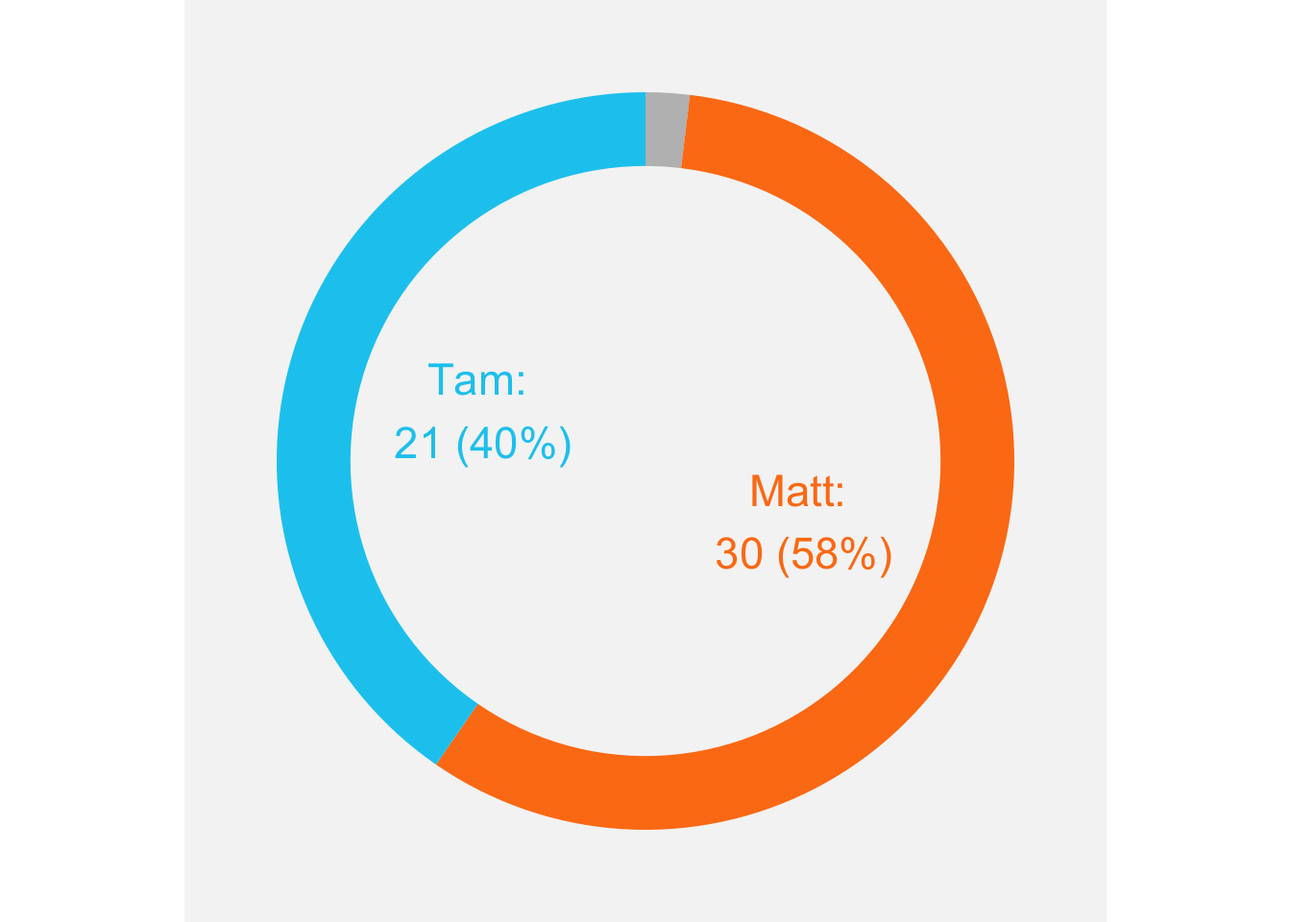
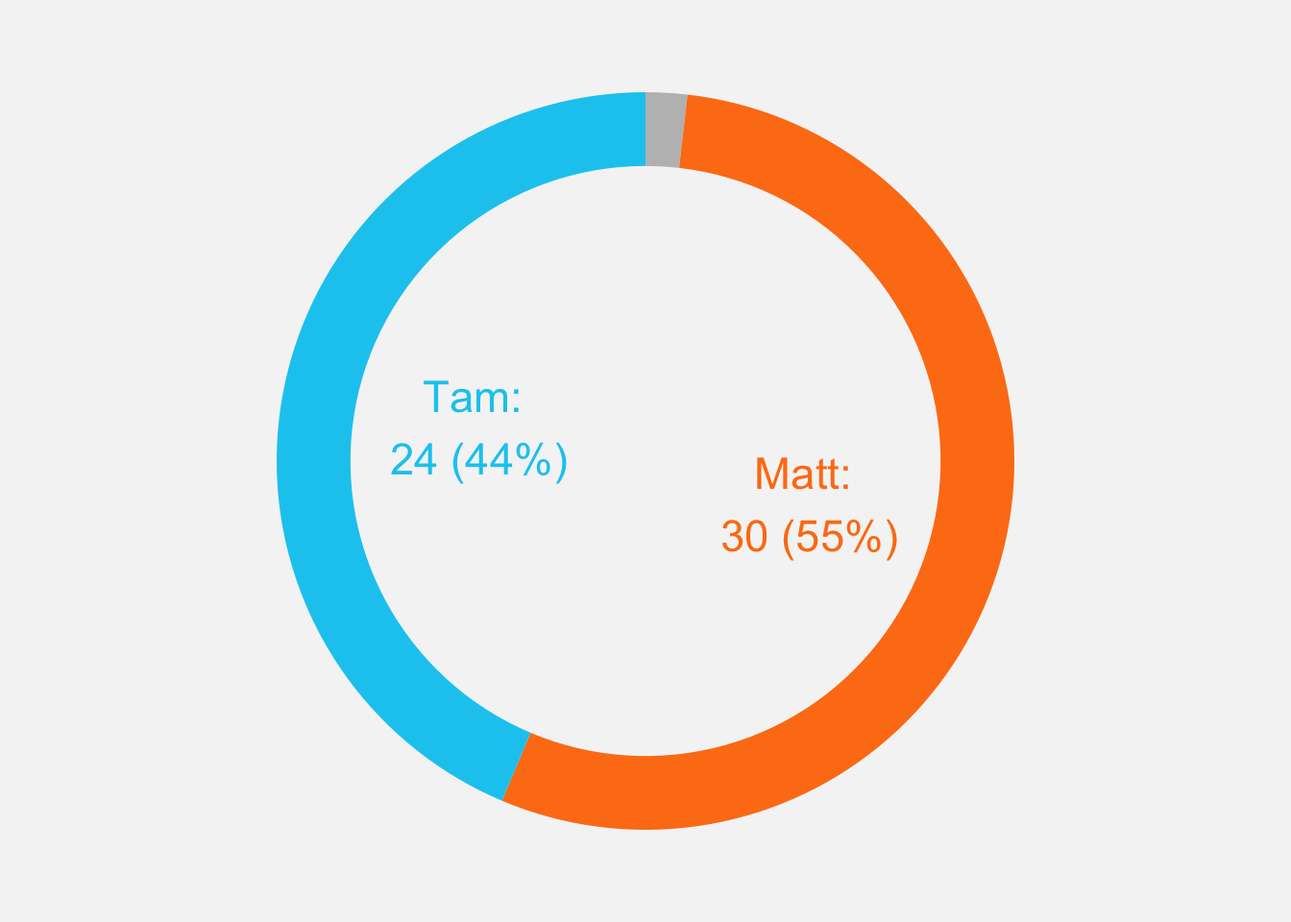
Change plot backgrounds to grey

Changed region(s): [[0.5625, 0.5, 0.7188, 0.625], [0.2812, 0.4062, 0.4375, 0.5312], [0.3438, 0.75, 0.4062, 0.875]]

diff --git a/mini.html b/mini.html
@@ -75,7 +75,7 @@ ul.task-list li input[type="checkbox"] {
 <p>S</p>
 </div>
 </div>
-<p>After 52 Minis, <strong><span class="matt">Matt</span></strong> is leading 30 to 21 (with 1 draw).</p>
+<p>After 55 Minis, <strong><span class="matt">Matt</span></strong> is leading 30 to 24 (with 1 draw).</p>
 <div class="cell">
 <div class="cell-output-display">
 <div>
@@ -110,8 +110,8 @@ ul.task-list li input[type="checkbox"] {
 <p>This chart compares our completion times for each Mini. Click/hover on the points to see the details of each game.</p>
 <div class="cell">
 <div class="cell-output-display">
-<div class="plotly html-widget html-fill-item" id="htmlwidget-49c35e6c49479754ac1f" style="width:100%;height:464px;"></div>
-<script type="application/json" data-for="htmlwidget-49c35e6c49479754ac1f">{"x":{"data":[{"x":[20080,20080,null,20081,20081,null,20083,20083,null,20085,20085,null,20086,20086,null,20089,20089,null,20090,20090,null,20091,20091,null,20092,20092,null,20093,20093,null,20095,20095,null,20098,20098,null,20099,20099,null,20100,20100,null,20101,20101,null,20105,20105,null,20108,20108,null,20109,20109,null,20110,20110,null,20112,20112,null,20113,20113,null,20114,20114,null,20115,20115,null,20116,20116,null,20118,20118,null,20119,20119,null,20120,20120,null,20122,20122,null,20123,20123,null,20124,20124,null,20125,20125,null,20126,20126,null,20128,20128,null,20130,20130,null,20131,20131,null,20135,20135,null,20137,20137,null,20138,20138,null,20139,20139,null,20141,20141,null,20142,20142,null,20143,20143,null,20144,20144,null,20145,20145,null,20146,20146,null,20147,20147,null,20149,20149,null,20150,20150,null,20159,20159,null,20163,20163,null,20164,20164,null,20180,20180],"y":[142,72,null,48,39,null,80,234,null,229,137,null,65,162,null,154,34,null,56,32,null,99,72,null,117,93,null,49,49,null,92,155,null,86,57,null,104,124,null,61,141,null,51,146,null,51,45,null,106,86,null,71,46,null,50,52,null,59,182,null,242,144,null,82,71,null,129,60,null,120,135,null,121,162,null,31,74,null,346,257,null,49,81,null,18,27,null,194,77,null,46,114,null,45,64,null,40,62,null,57,50,null,45,74,null,92,82,null,163,70,null,57,66,null,160,46,null,124,340,null,44,81,null,45,80,null,45,82,null,115,182,null,97,118,null,54,57,null,61,163,null,66,65,null,63,155,null,62,68,null,75,129,null,66,69],"text":"","type":"scatter","mode":"lines","line":{"width":1.8897637795275593,"color":"rgba(0,0,0,1)","dash":"solid"},"hoveron":"points","showlegend":false,"xaxis":"x","yaxis":"y","hoverinfo":"text","frame":null},{"x":[20080,20081,20083,20085,20086,20089,20090,20091,20092,20093,20095,20098,20099,20100,20101,20105,20108,20109,20110,20112,20113,20114,20115,20116,20118,20119,20120,20122,20123,20124,20125,20126,20128,20130,20131,20135,20137,20138,20139,20141,20142,20143,20144,20145,20146,20147,20149,20150,20159,20163,20164,20180],"y":[142,48,80,229,65,154,56,99,117,49,92,86,104,61,51,51,106,71,50,59,242,82,129,120,121,31,346,49,18,194,46,45,40,57,45,92,163,57,160,124,44,45,45,115,97,54,61,66,63,62,75,66],"text":["Matt completed the Mini in 2:22 on 23 December 2024","Matt completed the Mini in 0:48 on 24 December 2024","Matt completed the Mini in 1:20 on 26 December 2024","Matt completed the Mini in 3:49 on 28 December 2024","Matt completed the Mini in 1:05 on 29 December 2024","Matt completed the Mini in 2:34 on 1 January 2025","Matt completed the Mini in 0:56 on 2 January 2025","Matt completed the Mini in 1:39 on 3 January 2025","Matt completed the Mini in 1:57 on 4 January 2025","Matt completed the Mini in 0:49 on 5 January 2025","Matt completed the Mini in 1:32 on 7 January 2025","Matt completed the Mini in 1:26 on 10 January 2025","Matt completed the Mini in 1:44 on 11 January 2025","Matt completed the Mini in 1:01 on 12 January 2025","Matt completed the Mini in 0:51 on 13 January 2025","Matt completed the Mini in 0:51 on 17 January 2025","Matt completed the Mini in 1:46 on 20 January 2025","Matt completed the Mini in 1:11 on 21 January 2025","Matt completed the Mini in 0:50 on 22 January 2025","Matt completed the Mini in 0:59 on 24 January 2025","Matt completed the Mini in 4:02 on 25 January 2025","Matt completed the Mini in 1:22 on 26 January 2025","Matt completed the Mini in 2:09 on 27 January 2025","Matt completed the Mini in 2:00 on 28 January 2025","Matt completed the Mini in 2:01 on 30 January 2025","Matt completed the Mini in 0:31 on 31 January 2025","Matt completed the Mini in 5:46 on 1 February 2025","Matt completed the Mini in 0:49 on 3 February 2025","Matt completed the Mini in 0:18 on 4 February 2025","Matt completed the Mini in 3:14 on 5 February 2025","Matt completed the Mini in 0:46 on 6 February 2025","Matt completed the Mini in 0:45 on 7 February 2025","Matt completed the Mini in 0:40 on 9 February 2025","Matt completed the Mini in 0:57 on 11 February 2025","Matt completed the Mini in 0:45 on 12 February 2025","Matt completed the Mini in 1:32 on 16 February 2025","Matt completed the Mini in 2:43 on 18 February 2025","Matt completed the Mini in 0:57 on 19 February 2025","Matt completed the Mini in 2:40 on 20 February 2025","Matt completed the Mini in 2:04 on 22 February 2025","Matt completed the Mini in 0:44 on 23 February 2025","Matt completed the Mini in 0:45 on 24 February 2025","Matt completed the Mini in 0:45 on 25 February 2025","Matt completed the Mini in 1:55 on 26 February 2025","Matt completed the Mini in 1:37 on 27 February 2025","Matt completed the Mini in 0:54 on 28 February 2025","Matt completed the Mini in 1:01 on 2 March 2025","Matt completed the Mini in 1:06 on 3 March 2025","Matt completed the Mini in 1:03 on 12 March 2025","Matt completed the Mini in 1:02 on 16 March 2025","Matt completed the Mini in 1:15 on 17 March 2025","Matt completed the Mini in 1:06 on 2 April 2025"],"type":"scatter","mode":"markers","marker":{"autocolorscale":false,"color":"rgba(253,126,20,1)","opacity":1,"size":7.559055118110237,"symbol":"circle","line":{"width":1.8897637795275593,"color":"rgba(253,126,20,1)"}},"hoveron":"points","showlegend":false,"xaxis":"x","yaxis":"y","hoverinfo":"text","frame":null},{"x":[20080,20081,20083,20085,20086,20089,20090,20091,20092,20093,20095,20098,20099,20100,20101,20105,20108,20109,20110,20112,20113,20114,20115,20116,20118,20119,20120,20122,20123,20124,20125,20126,20128,20130,20131,20135,20137,20138,20139,20141,20142,20143,20144,20145,20146,20147,20149,20150,20159,20163,20164,20180],"y":[72,39,234,137,162,34,32,72,93,49,155,57,124,141,146,45,86,46,52,182,144,71,60,135,162,74,257,81,27,77,114,64,62,50,74,82,70,66,46,340,81,80,82,182,118,57,163,65,155,68,129,69],"text":["Tam completed the Mini in 1:12 on 23 December 2024","Tam completed the Mini in 0:39 on 24 December 2024","Tam completed the Mini in 3:54 on 26 December 2024","Tam completed the Mini in 2:17 on 28 December 2024","Tam completed the Mini in 2:42 on 29 December 2024","Tam completed the Mini in 0:34 on 1 January 2025","Tam completed the Mini in 0:32 on 2 January 2025","Tam completed the Mini in 1:12 on 3 January 2025","Tam completed the Mini in 1:33 on 4 January 2025","Tam completed the Mini in 0:49 on 5 January 2025","Tam completed the Mini in 2:35 on 7 January 2025","Tam completed the Mini in 0:57 on 10 January 2025","Tam completed the Mini in 2:04 on 11 January 2025","Tam completed the Mini in 2:21 on 12 January 2025","Tam completed the Mini in 2:26 on 13 January 2025","Tam completed the Mini in 0:45 on 17 January 2025","Tam completed the Mini in 1:26 on 20 January 2025","Tam completed the Mini in 0:46 on 21 January 2025","Tam completed the Mini in 0:52 on 22 January 2025","Tam completed the Mini in 3:02 on 24 January 2025","Tam completed the Mini in 2:24 on 25 January 2025","Tam completed the Mini in 1:11 on 26 January 2025","Tam completed the Mini in 1:00 on 27 January 2025","Tam completed the Mini in 2:15 on 28 January 2025","Tam completed the Mini in 2:42 on 30 January 2025","Tam completed the Mini in 1:14 on 31 January 2025","Tam completed the Mini in 4:17 on 1 February 2025","Tam completed the Mini in 1:21 on 3 February 2025","Tam completed the Mini in 0:27 on 4 February 2025","Tam completed the Mini in 1:17 on 5 February 2025","Tam completed the Mini in 1:54 on 6 February 2025","Tam completed the Mini in 1:04 on 7 February 2025","Tam completed the Mini in 1:02 on 9 February 2025","Tam completed the Mini in 0:50 on 11 February 2025","Tam completed the Mini in 1:14 on 12 February 2025","Tam completed the Mini in 1:22 on 16 February 2025","Tam completed the Mini in 1:10 on 18 February 2025","Tam completed the Mini in 1:06 on 19 February 2025","Tam completed the Mini in 0:46 on 20 February 2025","Tam completed the Mini in 5:40 on 22 February 2025","Tam completed the Mini in 1:21 on 23 February 2025","Tam completed the Mini in 1:20 on 24 February 2025","Tam completed the Mini in 1:22 on 25 February 2025","Tam completed the Mini in 3:02 on 26 February 2025","Tam completed the Mini in 1:58 on 27 February 2025","Tam completed the Mini in 0:57 on 28 February 2025","Tam completed the Mini in 2:43 on 2 March 2025","Tam completed the Mini in 1:05 on 3 March 2025","Tam completed the Mini in 2:35 on 12 March 2025","Tam completed the Mini in 1:08 on 16 March 2025","Tam completed the Mini in 2:09 on 17 March 2025","Tam completed the Mini in 1:09 on 2 April 2025"],"type":"scatter","mode":"markers","marker":{"autocolorscale":false,"color":"rgba(13,202,240,1)","opacity":1,"size":7.559055118110237,"symbol":"circle","line":{"width":1.8897637795275593,"color":"rgba(13,202,240,1)"}},"hoveron":"points","showlegend":false,"xaxis":"x","yaxis":"y","hoverinfo":"text","frame":null}],"layout":{"margin":{"t":26.228310502283108,"r":7.3059360730593621,"b":25.57077625570777,"l":43.105022831050235},"plot_bgcolor":"rgba(245,245,245,1)","paper_bgcolor":"rgba(245,245,245,1)","font":{"color":"rgba(0,0,0,1)","family":"","size":14.611872146118724},"xaxis":{"domain":[0,1],"automargin":true,"type":"linear","autorange":false,"range":[20075,20185],"tickmode":"array","ticktext":["Jan","Feb","Mar","Apr"],"tickvals":[20089,20120,20148,20179],"categoryorder":"array","categoryarray":["Jan","Feb","Mar","Apr"],"nticks":null,"ticks":"","tickcolor":null,"ticklen":3.6529680365296811,"tickwidth":0,"showticklabels":true,"tickfont":{"color":"rgba(77,77,77,1)","family":"","size":11.68949771689498},"tickangle":-0,"showline":false,"linecolor":null,"linewidth":0,"showgrid":true,"gridcolor":"rgba(235,235,235,1)","gridwidth":0.66417600664176002,"zeroline":false,"anchor":"y","title":{"text":"","font":{"color":"rgba(0,0,0,1)","family":"","size":14.611872146118724}},"hoverformat":".2f"},"yaxis":{"domain":[0,1],"automargin":true,"type":"linear","autorange":false,"range":[1.5999999999999979,362.39999999999998],"tickmode":"array","ticktext":["100","200","300"],"tickvals":[100,199.99999999999997,300],"categoryorder":"array","categoryarray":["100","200","300"],"nticks":null,"ticks":"","tickcolor":null,"ticklen":3.6529680365296811,"tickwidth":0,"showticklabels":true,"tickfont":{"color":"rgba(77,77,77,1)","family":"","size":11.68949771689498},"tickangle":-0,"showline":false,"linecolor":null,"linewidth":0,"showgrid":true,"gridcolor":"rgba(235,235,235,1)","gridwidth":0.66417600664176002,"zeroline":false,"anchor":"x","title":{"text":"Time to finish Mini (seconds)","font":{"color":"rgba(0,0,0,1)","family":"","size":14.611872146118724}},"hoverformat":".2f"},"shapes":[{"type":"rect","fillcolor":null,"line":{"color":null,"width":0,"linetype":[]},"yref":"paper","xref":"paper","x0":0,"x1":1,"y0":0,"y1":1}],"showlegend":false,"legend":{"bgcolor":null,"bordercolor":null,"borderwidth":0,"font":{"color":"rgba(0,0,0,1)","family":"","size":11.68949771689498}},"hovermode":"x","barmode":"relative"},"config":{"doubleClick":"reset","modeBarButtonsToAdd":["hoverclosest","hovercompare"],"showSendToCloud":false,"displayModeBar":true,"displaylogo":false,"modeBarButtonsToRemove":["pan","select","autoScale","lasso2d","hoverClosestCartesian","hoverCompareCartesian"]},"source":"A","attrs":{"129d792095b2":{"x":{},"y":{},"xend":{},"yend":{},"type":"scatter"},"129d73a43ddcc":{"x":{},"y":{},"xend":{},"yend":{},"text":{}},"129d73d9699f6":{"x":{},"y":{},"xend":{},"yend":{},"text":{}}},"cur_data":"129d792095b2","visdat":{"129d792095b2":["function (y) ","x"],"129d73a43ddcc":["function (y) ","x"],"129d73d9699f6":["function (y) ","x"]},"highlight":{"on":"plotly_click","persistent":false,"dynamic":false,"selectize":false,"opacityDim":0.20000000000000001,"selected":{"opacity":1},"debounce":0},"shinyEvents":["plotly_hover","plotly_click","plotly_selected","plotly_relayout","plotly_brushed","plotly_brushing","plotly_clickannotation","plotly_doubleclick","plotly_deselect","plotly_afterplot","plotly_sunburstclick"],"base_url":"https://plot.ly"},"evals":[],"jsHooks":[]}</script>
+<div class="plotly html-widget html-fill-item" id="htmlwidget-8c653aa2f08a68fa7c2d" style="width:100%;height:464px;"></div>
+<script type="application/json" data-for="htmlwidget-8c653aa2f08a68fa7c2d">{"x":{"data":[{"x":[20080,20080,null,20081,20081,null,20083,20083,null,20085,20085,null,20086,20086,null,20089,20089,null,20090,20090,null,20091,20091,null,20092,20092,null,20093,20093,null,20095,20095,null,20098,20098,null,20099,20099,null,20100,20100,null,20101,20101,null,20105,20105,null,20108,20108,null,20109,20109,null,20110,20110,null,20112,20112,null,20113,20113,null,20114,20114,null,20115,20115,null,20116,20116,null,20118,20118,null,20119,20119,null,20120,20120,null,20122,20122,null,20123,20123,null,20124,20124,null,20125,20125,null,20126,20126,null,20128,20128,null,20130,20130,null,20131,20131,null,20135,20135,null,20137,20137,null,20138,20138,null,20139,20139,null,20141,20141,null,20142,20142,null,20143,20143,null,20144,20144,null,20145,20145,null,20146,20146,null,20147,20147,null,20149,20149,null,20150,20150,null,20159,20159,null,20163,20163,null,20164,20164,null,20180,20180,null,20185,20185,null,20187,20187,null,20189,20189],"y":[142,72,null,48,39,null,80,234,null,229,137,null,65,162,null,154,34,null,56,32,null,99,72,null,117,93,null,49,49,null,92,155,null,86,57,null,104,124,null,61,141,null,51,146,null,51,45,null,106,86,null,71,46,null,50,52,null,59,182,null,242,144,null,82,71,null,129,60,null,120,135,null,121,162,null,31,74,null,346,257,null,49,81,null,18,27,null,194,77,null,46,114,null,45,64,null,40,62,null,57,50,null,45,74,null,92,82,null,163,70,null,57,66,null,160,46,null,124,340,null,44,81,null,45,80,null,45,82,null,115,182,null,97,118,null,54,57,null,61,163,null,66,65,null,63,155,null,62,68,null,75,129,null,66,69,null,87,72,null,103,53,null,110,91],"text":"","type":"scatter","mode":"lines","line":{"width":1.8897637795275593,"color":"rgba(0,0,0,1)","dash":"solid"},"hoveron":"points","showlegend":false,"xaxis":"x","yaxis":"y","hoverinfo":"text","frame":null},{"x":[20080,20081,20083,20085,20086,20089,20090,20091,20092,20093,20095,20098,20099,20100,20101,20105,20108,20109,20110,20112,20113,20114,20115,20116,20118,20119,20120,20122,20123,20124,20125,20126,20128,20130,20131,20135,20137,20138,20139,20141,20142,20143,20144,20145,20146,20147,20149,20150,20159,20163,20164,20180,20185,20187,20189],"y":[142,48,80,229,65,154,56,99,117,49,92,86,104,61,51,51,106,71,50,59,242,82,129,120,121,31,346,49,18,194,46,45,40,57,45,92,163,57,160,124,44,45,45,115,97,54,61,66,63,62,75,66,87,103,110],"text":["Matt completed the Mini in 2:22 on 23 December 2024","Matt completed the Mini in 0:48 on 24 December 2024","Matt completed the Mini in 1:20 on 26 December 2024","Matt completed the Mini in 3:49 on 28 December 2024","Matt completed the Mini in 1:05 on 29 December 2024","Matt completed the Mini in 2:34 on 1 January 2025","Matt completed the Mini in 0:56 on 2 January 2025","Matt completed the Mini in 1:39 on 3 January 2025","Matt completed the Mini in 1:57 on 4 January 2025","Matt completed the Mini in 0:49 on 5 January 2025","Matt completed the Mini in 1:32 on 7 January 2025","Matt completed the Mini in 1:26 on 10 January 2025","Matt completed the Mini in 1:44 on 11 January 2025","Matt completed the Mini in 1:01 on 12 January 2025","Matt completed the Mini in 0:51 on 13 January 2025","Matt completed the Mini in 0:51 on 17 January 2025","Matt completed the Mini in 1:46 on 20 January 2025","Matt completed the Mini in 1:11 on 21 January 2025","Matt completed the Mini in 0:50 on 22 January 2025","Matt completed the Mini in 0:59 on 24 January 2025","Matt completed the Mini in 4:02 on 25 January 2025","Matt completed the Mini in 1:22 on 26 January 2025","Matt completed the Mini in 2:09 on 27 January 2025","Matt completed the Mini in 2:00 on 28 January 2025","Matt completed the Mini in 2:01 on 30 January 2025","Matt completed the Mini in 0:31 on 31 January 2025","Matt completed the Mini in 5:46 on 1 February 2025","Matt completed the Mini in 0:49 on 3 February 2025","Matt completed the Mini in 0:18 on 4 February 2025","Matt completed the Mini in 3:14 on 5 February 2025","Matt completed the Mini in 0:46 on 6 February 2025","Matt completed the Mini in 0:45 on 7 February 2025","Matt completed the Mini in 0:40 on 9 February 2025","Matt completed the Mini in 0:57 on 11 February 2025","Matt completed the Mini in 0:45 on 12 February 2025","Matt completed the Mini in 1:32 on 16 February 2025","Matt completed the Mini in 2:43 on 18 February 2025","Matt completed the Mini in 0:57 on 19 February 2025","Matt completed the Mini in 2:40 on 20 February 2025","Matt completed the Mini in 2:04 on 22 February 2025","Matt completed the Mini in 0:44 on 23 February 2025","Matt completed the Mini in 0:45 on 24 February 2025","Matt completed the Mini in 0:45 on 25 February 2025","Matt completed the Mini in 1:55 on 26 February 2025","Matt completed the Mini in 1:37 on 27 February 2025","Matt completed the Mini in 0:54 on 28 February 2025","Matt completed the Mini in 1:01 on 2 March 2025","Matt completed the Mini in 1:06 on 3 March 2025","Matt completed the Mini in 1:03 on 12 March 2025","Matt completed the Mini in 1:02 on 16 March 2025","Matt completed the Mini in 1:15 on 17 March 2025","Matt completed the Mini in 1:06 on 2 April 2025","Matt completed the Mini in 1:27 on 7 April 2025","Matt completed the Mini in 1:43 on 9 April 2025","Matt completed the Mini in 1:50 on 11 April 2025"],"type":"scatter","mode":"markers","marker":{"autocolorscale":false,"color":"rgba(253,126,20,1)","opacity":1,"size":7.559055118110237,"symbol":"circle","line":{"width":1.8897637795275593,"color":"rgba(253,126,20,1)"}},"hoveron":"points","showlegend":false,"xaxis":"x","yaxis":"y","hoverinfo":"text","frame":null},{"x":[20080,20081,20083,20085,20086,20089,20090,20091,20092,20093,20095,20098,20099,20100,20101,20105,20108,20109,20110,20112,20113,20114,20115,20116,20118,20119,20120,20122,20123,20124,20125,20126,20128,20130,20131,20135,20137,20138,20139,20141,20142,20143,20144,20145,20146,20147,20149,20150,20159,20163,20164,20180,20185,20187,20189],"y":[72,39,234,137,162,34,32,72,93,49,155,57,124,141,146,45,86,46,52,182,144,71,60,135,162,74,257,81,27,77,114,64,62,50,74,82,70,66,46,340,81,80,82,182,118,57,163,65,155,68,129,69,72,53,91],"text":["Tam completed the Mini in 1:12 on 23 December 2024","Tam completed the Mini in 0:39 on 24 December 2024","Tam completed the Mini in 3:54 on 26 December 2024","Tam completed the Mini in 2:17 on 28 December 2024","Tam completed the Mini in 2:42 on 29 December 2024","Tam completed the Mini in 0:34 on 1 January 2025","Tam completed the Mini in 0:32 on 2 January 2025","Tam completed the Mini in 1:12 on 3 January 2025","Tam completed the Mini in 1:33 on 4 January 2025","Tam completed the Mini in 0:49 on 5 January 2025","Tam completed the Mini in 2:35 on 7 January 2025","Tam completed the Mini in 0:57 on 10 January 2025","Tam completed the Mini in 2:04 on 11 January 2025","Tam completed the Mini in 2:21 on 12 January 2025","Tam completed the Mini in 2:26 on 13 January 2025","Tam completed the Mini in 0:45 on 17 January 2025","Tam completed the Mini in 1:26 on 20 January 2025","Tam completed the Mini in 0:46 on 21 January 2025","Tam completed the Mini in 0:52 on 22 January 2025","Tam completed the Mini in 3:02 on 24 January 2025","Tam completed the Mini in 2:24 on 25 January 2025","Tam completed the Mini in 1:11 on 26 January 2025","Tam completed the Mini in 1:00 on 27 January 2025","Tam completed the Mini in 2:15 on 28 January 2025","Tam completed the Mini in 2:42 on 30 January 2025","Tam completed the Mini in 1:14 on 31 January 2025","Tam completed the Mini in 4:17 on 1 February 2025","Tam completed the Mini in 1:21 on 3 February 2025","Tam completed the Mini in 0:27 on 4 February 2025","Tam completed the Mini in 1:17 on 5 February 2025","Tam completed the Mini in 1:54 on 6 February 2025","Tam completed the Mini in 1:04 on 7 February 2025","Tam completed the Mini in 1:02 on 9 February 2025","Tam completed the Mini in 0:50 on 11 February 2025","Tam completed the Mini in 1:14 on 12 February 2025","Tam completed the Mini in 1:22 on 16 February 2025","Tam completed the Mini in 1:10 on 18 February 2025","Tam completed the Mini in 1:06 on 19 February 2025","Tam completed the Mini in 0:46 on 20 February 2025","Tam completed the Mini in 5:40 on 22 February 2025","Tam completed the Mini in 1:21 on 23 February 2025","Tam completed the Mini in 1:20 on 24 February 2025","Tam completed the Mini in 1:22 on 25 February 2025","Tam completed the Mini in 3:02 on 26 February 2025","Tam completed the Mini in 1:58 on 27 February 2025","Tam completed the Mini in 0:57 on 28 February 2025","Tam completed the Mini in 2:43 on 2 March 2025","Tam completed the Mini in 1:05 on 3 March 2025","Tam completed the Mini in 2:35 on 12 March 2025","Tam completed the Mini in 1:08 on 16 March 2025","Tam completed the Mini in 2:09 on 17 March 2025","Tam completed the Mini in 1:09 on 2 April 2025","Tam completed the Mini in 1:12 on 7 April 2025","Tam completed the Mini in 0:53 on 9 April 2025","Tam completed the Mini in 1:31 on 11 April 2025"],"type":"scatter","mode":"markers","marker":{"autocolorscale":false,"color":"rgba(13,202,240,1)","opacity":1,"size":7.559055118110237,"symbol":"circle","line":{"width":1.8897637795275593,"color":"rgba(13,202,240,1)"}},"hoveron":"points","showlegend":false,"xaxis":"x","yaxis":"y","hoverinfo":"text","frame":null}],"layout":{"margin":{"t":26.228310502283108,"r":7.3059360730593621,"b":25.57077625570777,"l":43.105022831050235},"plot_bgcolor":"rgba(245,245,245,1)","paper_bgcolor":"rgba(245,245,245,1)","font":{"color":"rgba(0,0,0,1)","family":"","size":14.611872146118724},"xaxis":{"domain":[0,1],"automargin":true,"type":"linear","autorange":false,"range":[20074.549999999999,20194.450000000001],"tickmode":"array","ticktext":["Jan","Feb","Mar","Apr"],"tickvals":[20089,20120,20148,20179],"categoryorder":"array","categoryarray":["Jan","Feb","Mar","Apr"],"nticks":null,"ticks":"","tickcolor":null,"ticklen":3.6529680365296811,"tickwidth":0,"showticklabels":true,"tickfont":{"color":"rgba(77,77,77,1)","family":"","size":11.68949771689498},"tickangle":-0,"showline":false,"linecolor":null,"linewidth":0,"showgrid":true,"gridcolor":"rgba(235,235,235,1)","gridwidth":0.66417600664176002,"zeroline":false,"anchor":"y","title":{"text":"","font":{"color":"rgba(0,0,0,1)","family":"","size":14.611872146118724}},"hoverformat":".2f"},"yaxis":{"domain":[0,1],"automargin":true,"type":"linear","autorange":false,"range":[1.5999999999999979,362.39999999999998],"tickmode":"array","ticktext":["100","200","300"],"tickvals":[100,199.99999999999997,300],"categoryorder":"array","categoryarray":["100","200","300"],"nticks":null,"ticks":"","tickcolor":null,"ticklen":3.6529680365296811,"tickwidth":0,"showticklabels":true,"tickfont":{"color":"rgba(77,77,77,1)","family":"","size":11.68949771689498},"tickangle":-0,"showline":false,"linecolor":null,"linewidth":0,"showgrid":true,"gridcolor":"rgba(235,235,235,1)","gridwidth":0.66417600664176002,"zeroline":false,"anchor":"x","title":{"text":"Time to finish Mini (seconds)","font":{"color":"rgba(0,0,0,1)","family":"","size":14.611872146118724}},"hoverformat":".2f"},"shapes":[{"type":"rect","fillcolor":null,"line":{"color":null,"width":0,"linetype":[]},"yref":"paper","xref":"paper","x0":0,"x1":1,"y0":0,"y1":1}],"showlegend":false,"legend":{"bgcolor":null,"bordercolor":null,"borderwidth":0,"font":{"color":"rgba(0,0,0,1)","family":"","size":11.68949771689498}},"hovermode":"x","barmode":"relative"},"config":{"doubleClick":"reset","modeBarButtonsToAdd":["hoverclosest","hovercompare"],"showSendToCloud":false,"displayModeBar":true,"displaylogo":false,"modeBarButtonsToRemove":["pan","select","autoScale","lasso2d","hoverClosestCartesian","hoverCompareCartesian"]},"source":"A","attrs":{"16ad92de01631":{"x":{},"y":{},"xend":{},"yend":{},"type":"scatter"},"16ad952d1027e":{"x":{},"y":{},"xend":{},"yend":{},"text":{}},"16ad917fac8ac":{"x":{},"y":{},"xend":{},"yend":{},"text":{}}},"cur_data":"16ad92de01631","visdat":{"16ad92de01631":["function (y) ","x"],"16ad952d1027e":["function (y) ","x"],"16ad917fac8ac":["function (y) ","x"]},"highlight":{"on":"plotly_click","persistent":false,"dynamic":false,"selectize":false,"opacityDim":0.20000000000000001,"selected":{"opacity":1},"debounce":0},"shinyEvents":["plotly_hover","plotly_click","plotly_selected","plotly_relayout","plotly_brushed","plotly_brushing","plotly_clickannotation","plotly_doubleclick","plotly_deselect","plotly_afterplot","plotly_sunburstclick"],"base_url":"https://plot.ly"},"evals":[],"jsHooks":[]}</script>
 </div>
 </div>
 <div class="crossword-container">
@@ -130,7 +130,7 @@ ul.task-list li input[type="checkbox"] {
 </div>
 </div>
 </div>
-<p><span class="tam">Tam’s</span> fastest Mini completion times tend to be on Tuesdays, while <span class="matt">Matt</span> is faster on Fridays, on average.</p>
+<p><span class="tam">Tam’s</span> fastest Mini completion times tend to be on Tuesdays, while <span class="matt">Matt</span> is faster on Sundays, on average.</p>
 <p>The chart below shows the variation in our completion times on each day of the week:</p>
 <div class="cell">
 <div class="cell-output-display">
@@ -167,8 +167,8 @@ ul.task-list li input[type="checkbox"] {
 </div>
 </div>
 </div>
-<p><span class="tam">Tam</span> does best when <strong>Sam Ezersky</strong> sets the Mini, winning 2 of 2 games.</p>
-<p><span class="matt">Matt’s</span> favourite Mini setter is <strong>Christina Iverson</strong>, with 4 wins out of 5 games.</p>
+<p><span class="tam">Tam</span> does best when <strong>Sam Ezersky</strong> sets the Mini, winning 4 of 4 games.</p>
+<p><span class="matt">Matt’s</span> favourite Mini setter is <strong>Joel Fagliano</strong>, with 9 wins out of 13 games.</p>
 <p>Each square in this chart represents one Mini, coloured by the winner, for each crossword setter:</p>
 <div class="cell">
 <div class="cell-output-display">
@@ -180,8 +180,8 @@ ul.task-list li input[type="checkbox"] {
 </div>
 </div>
 <p><span class="matt">Matt</span> tends to be fastest when <strong>Joel Fagliano</strong> sets the Mini, with an average completion time of <strong>1:17</strong>. But he’s slowest when <strong>Ian Livengood</strong> is the setter, completing these Minis in <strong>1:50</strong> on average.</p>
-<p><span class="tam">Tam</span> is speediest when <strong>Sam Ezersky</strong> sets the Mini, gunning it in <strong>0:48</strong>, on average. She’s slowest when they’re set by <strong>Christina Iverson</strong>, with an average completion time of <strong>2:55</strong>.</p>
-<p><em>Last updated on 6 April 2025.</em></p>
+<p><span class="tam">Tam</span> is speediest when <strong>Tracy Bennett</strong> sets the Mini, gunning it in <strong>1:01</strong>, on average. She’s slowest when they’re set by <strong>Christina Iverson</strong>, with an average completion time of <strong>2:35</strong>.</p>
+<p><em>Last updated on 13 April 2025.</em></p>
 </section>
 
 </main>
